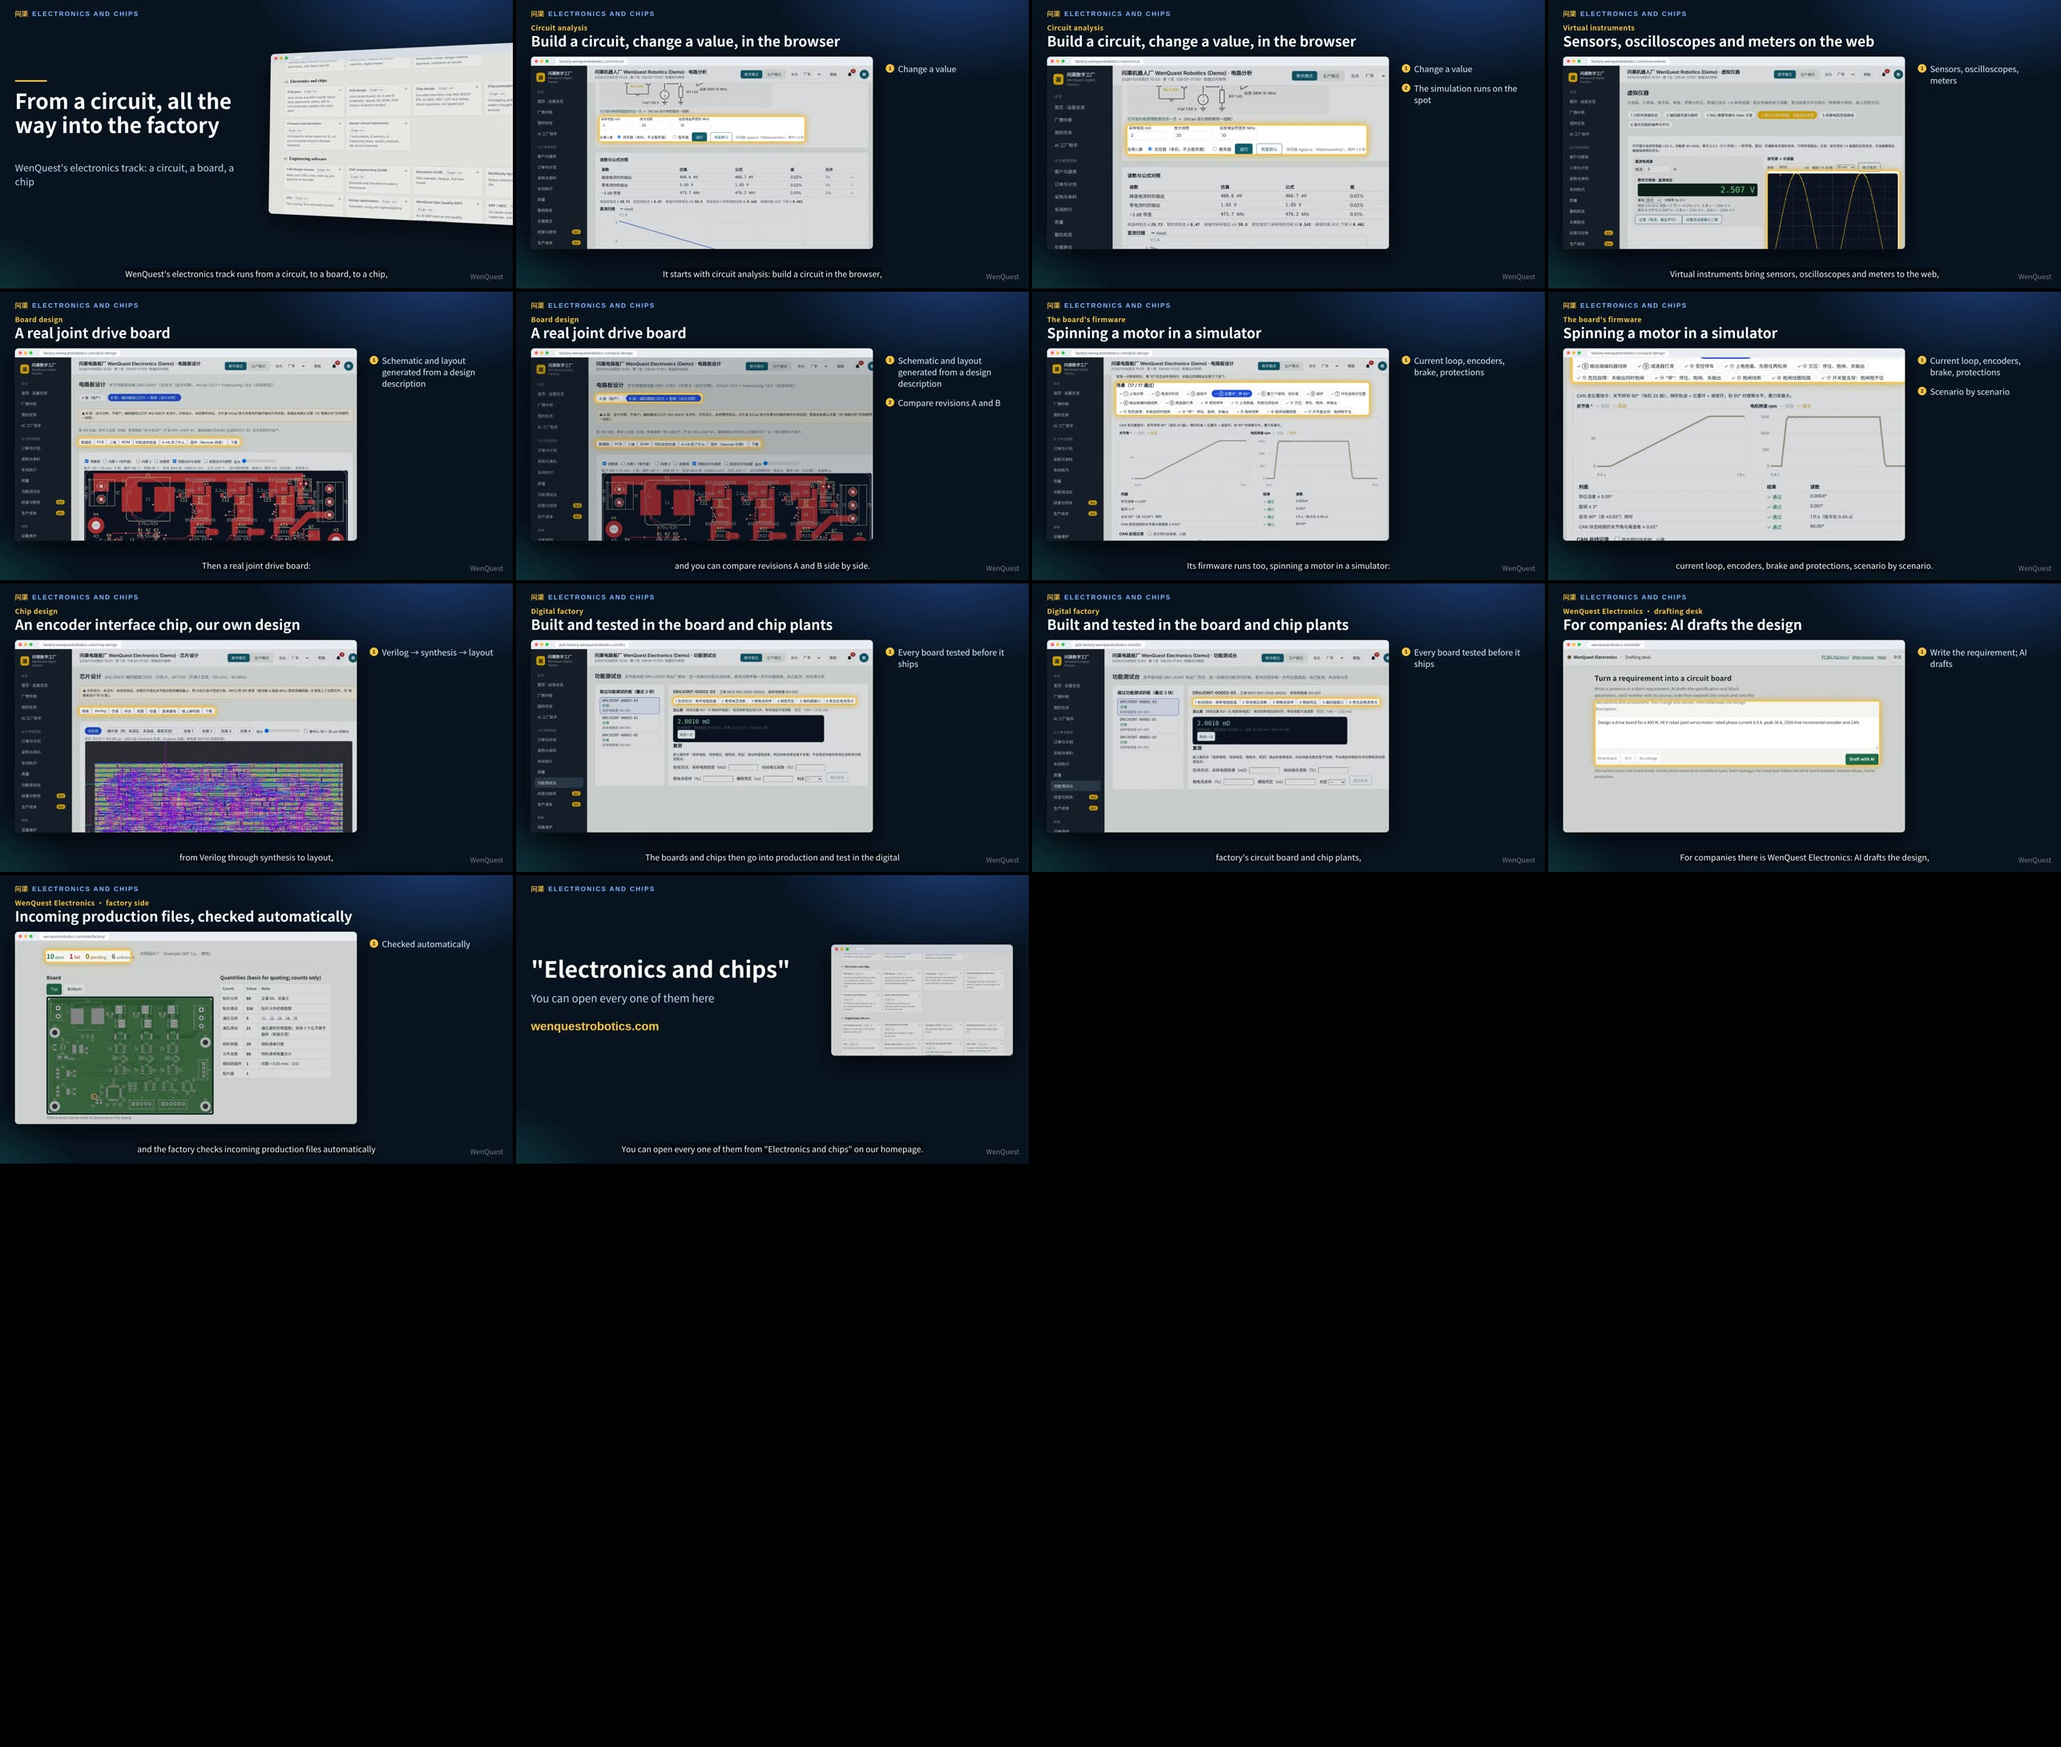
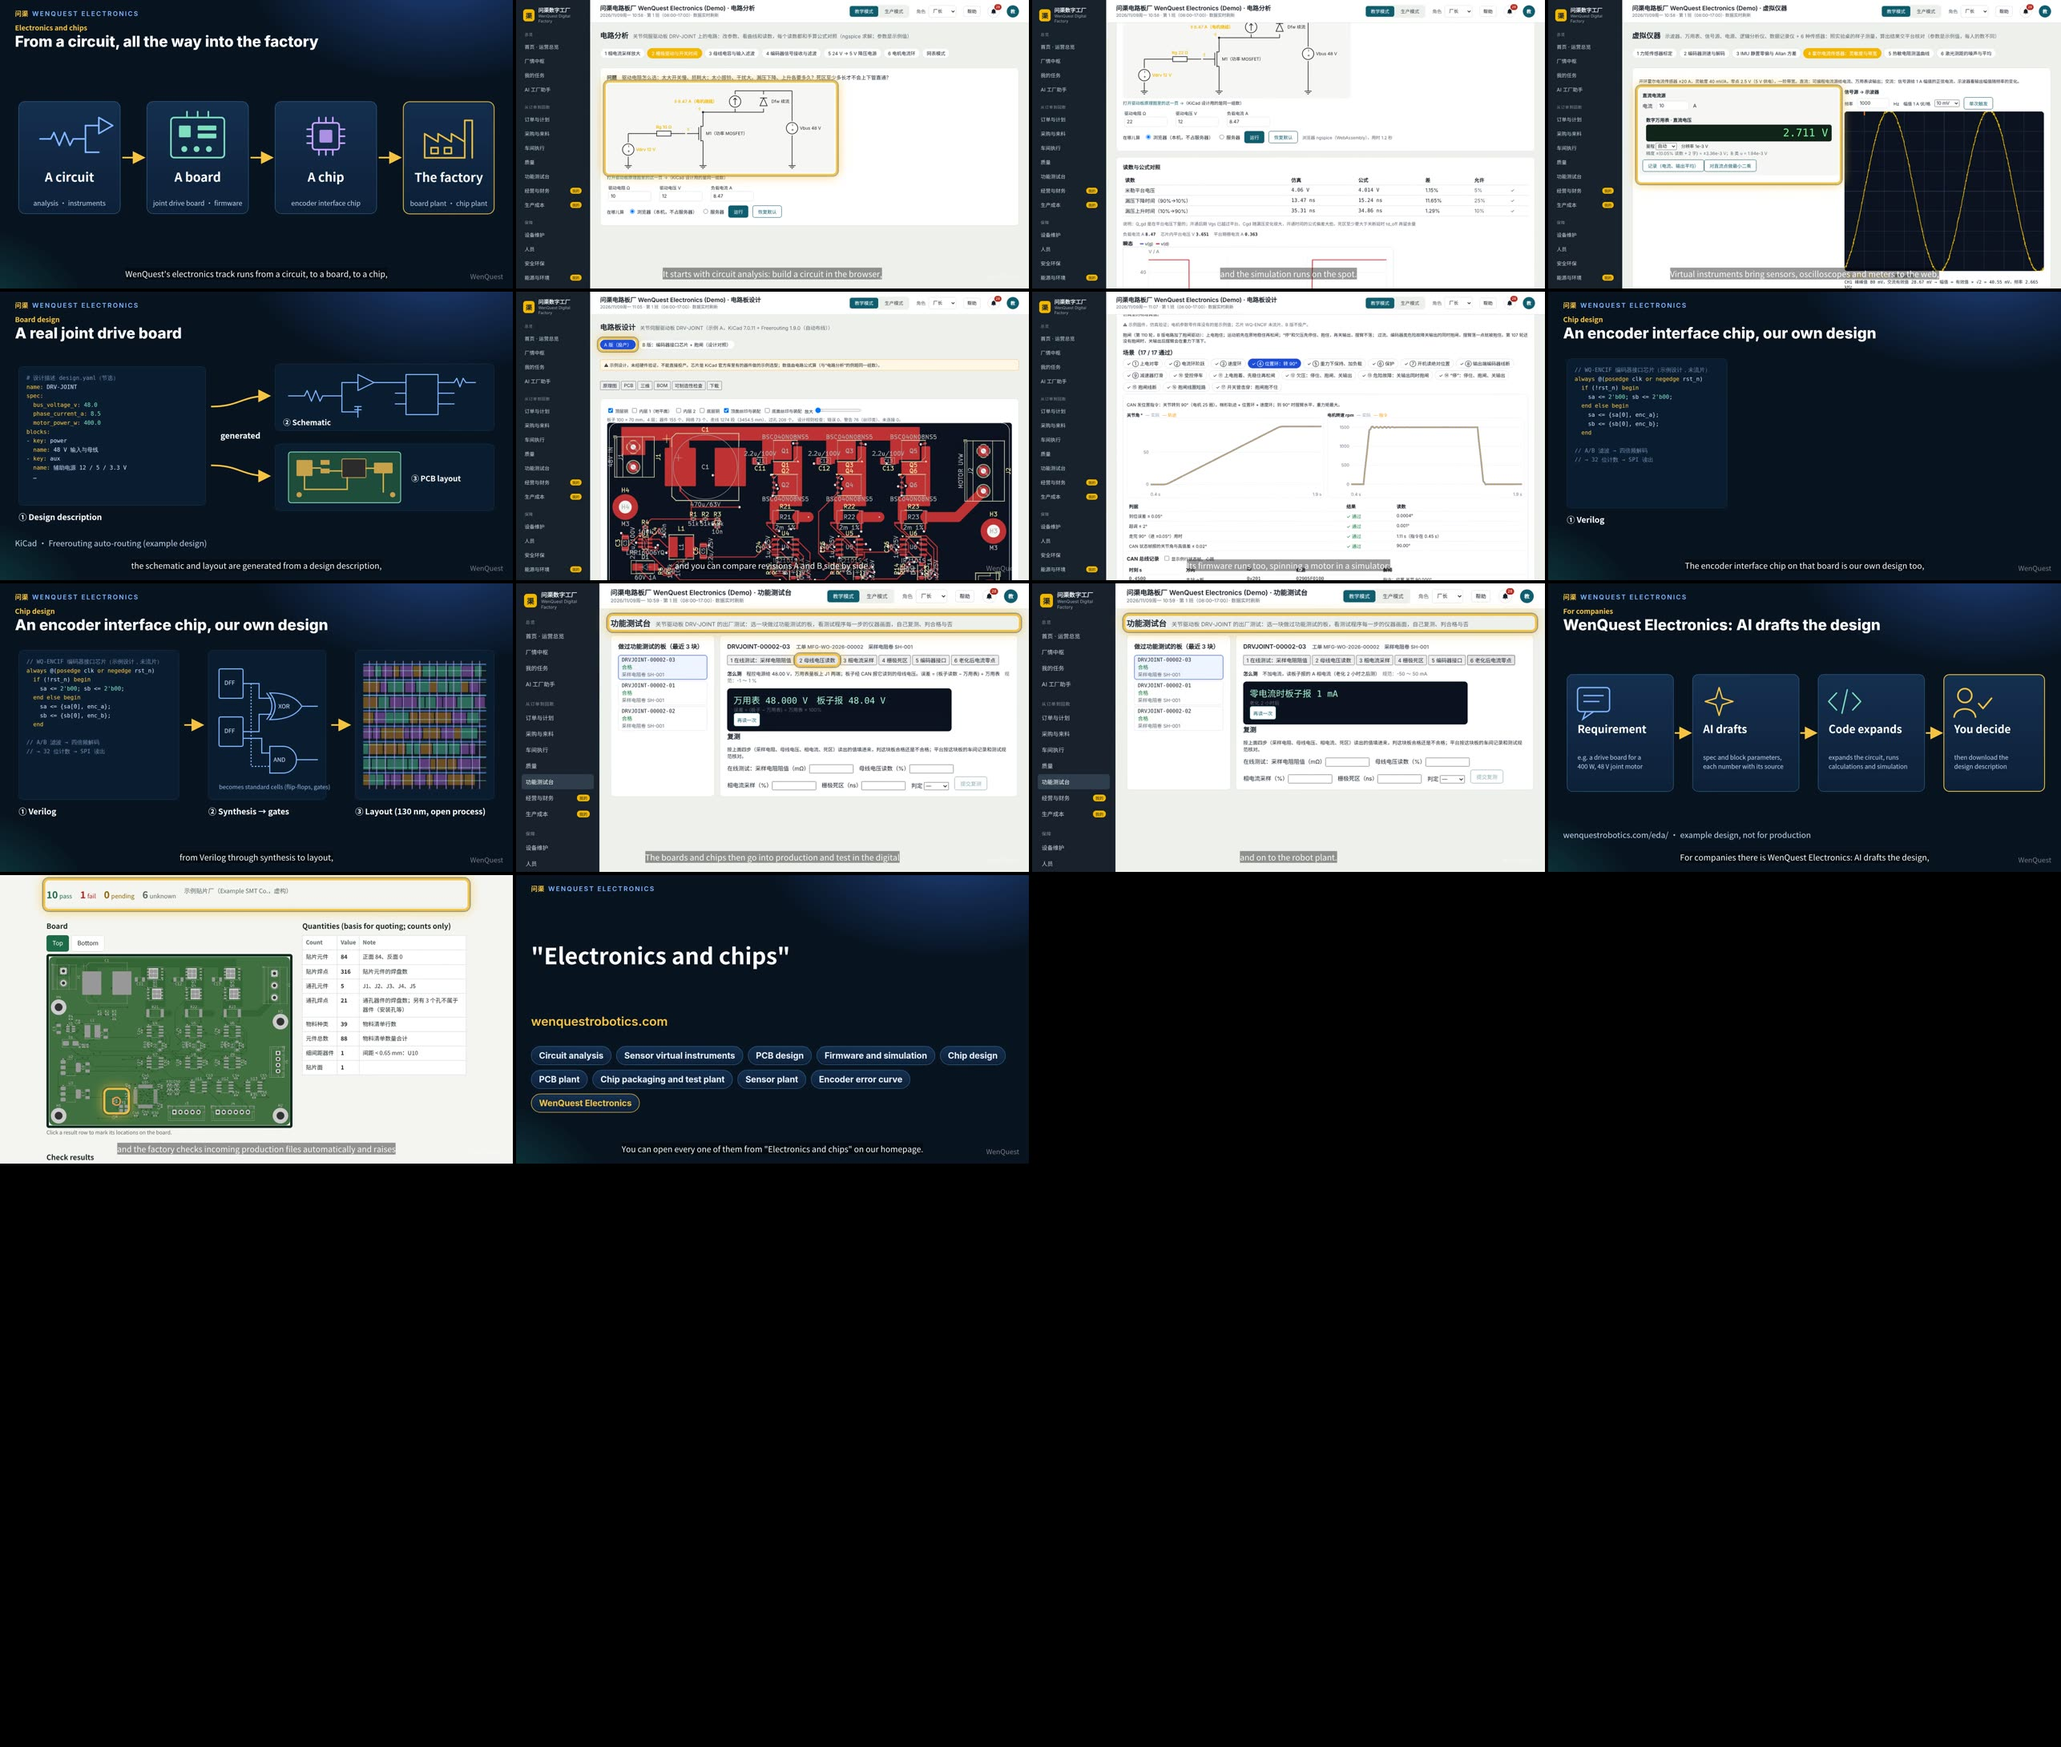
公开课视频预览：docs/课程视频/首页简介/18-电子与芯片（kokoro）

diff --git a/docs/课程视频/首页简介/18-电子与芯片/预览/上传资料.en.md b/docs/课程视频/首页简介/18-电子与芯片/预览/上传资料.en.md
@@ -9,15 +9,15 @@ WenQuest electronics and chips: from a circuit all the way into the factory
 Chapters:
 0:00 Intro
 0:06 Circuit analysis
-0:15 Virtual instruments
-0:21 Drive board
-0:30 Firmware
-0:38 Chip
-0:46 Into the factory
-0:55 WenQuest Electronics
-1:06 Outro
+0:14 Virtual instruments
+0:20 Drive board
+0:29 Firmware
+0:36 Chip
+0:45 Into the factory
+0:53 WenQuest Electronics
+1:04 Outro
 
-Voice: AI-generated.The boards, chip and firmware shown are example designs, not in production or taped out; plants and figures are teaching demo data.
+Voice: AI-generated.The boards, chip and firmware shown are example designs, not in production or taped out; plants and figures are teaching demo data; diagrams are illustrations.
 
 ## Tags
 electronics, circuit analysis, virtual instruments, PCB design, KiCad, firmware, Renode, chip design, Verilog, open-source EDA, digital factory, WenQuest
@@ -25,4 +25,4 @@ electronics, circuit analysis, virtual instruments, PCB design, KiCad, firmware,
 ## Settings
 - Altered or synthetic content: Yes (AI voice)
 
-<!-- length 1:11 -->
+<!-- length 1:08 -->

diff --git a/docs/课程视频/首页简介/18-电子与芯片/预览/上传资料.zh.md b/docs/课程视频/首页简介/18-电子与芯片/预览/上传资料.zh.md
@@ -10,14 +10,14 @@
 0:00 开场
 0:06 电路分析
 0:14 虚拟仪器
-0:21 驱动板
-0:29 固件
-0:38 芯片
-0:46 进工厂
-0:55 问渠电子
-1:05 结尾
+0:20 驱动板
+0:28 固件
+0:36 芯片
+0:45 进工厂
+0:53 问渠电子
+1:03 结尾
 
-配音：AI 合成。画面里的驱动板、芯片和固件都是示例设计，未投产、未流片；工厂和数字都是教学演示数据。
+配音：AI 合成。画面里的驱动板、芯片和固件都是示例设计，未投产、未流片；工厂和数字都是教学演示数据；示意图不是系统界面。
 
 ## Tags
 电子, 电路分析, 虚拟仪器, 电路板设计, KiCad, 固件, Renode, 芯片设计, Verilog, 开源 EDA, 数字工厂, 问渠
@@ -25,4 +25,4 @@
 ## Settings
 - 投稿时勾选“作者声明：使用 AI 合成技术”（配音）
 
-<!-- length 1:10 -->
+<!-- length 1:07 -->
